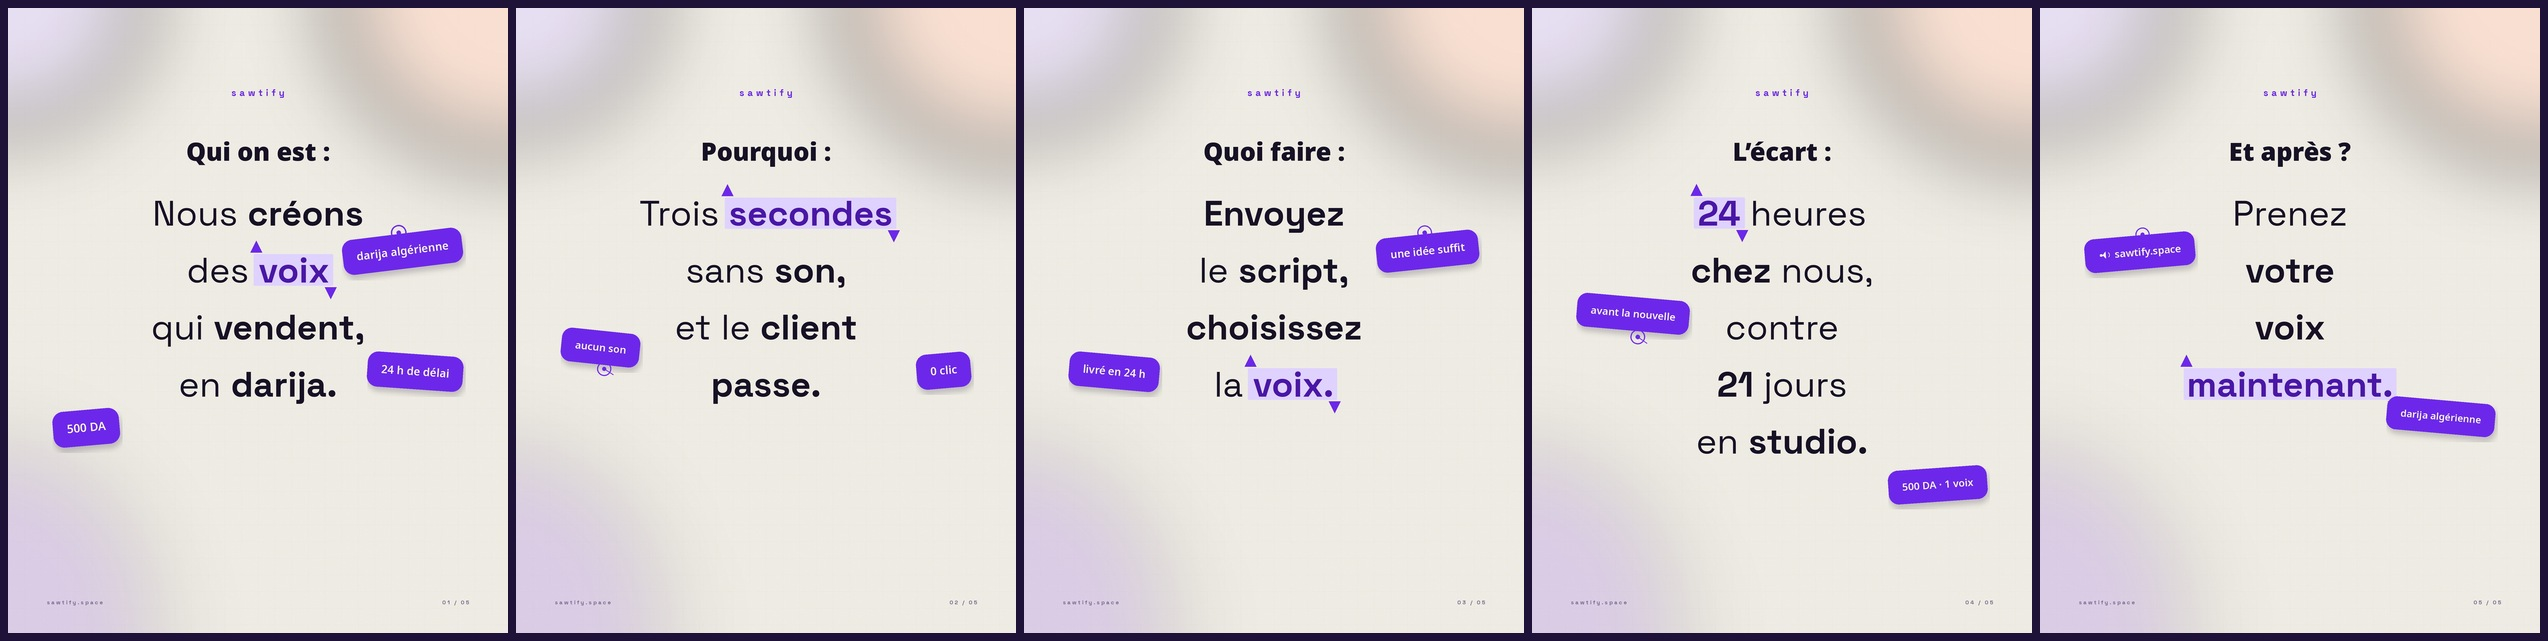
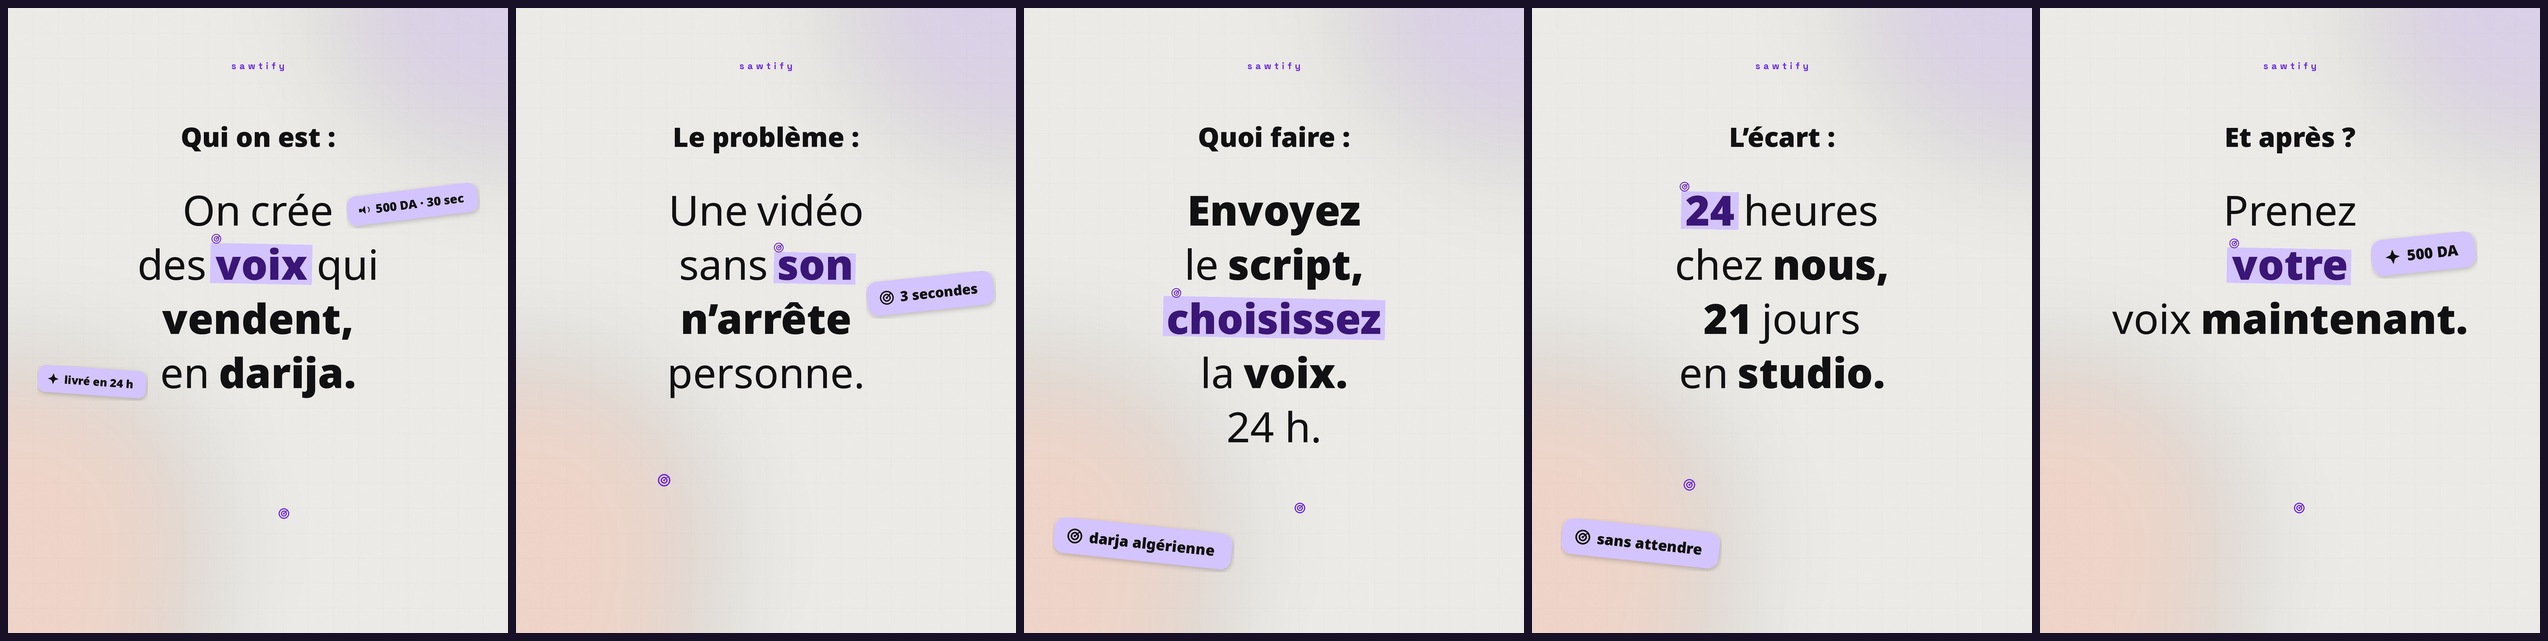
feat(lettre): pastilles auto-placees hors du texte + surligneur serre (gabarit lettre)
- geometrie des lignes mesuree avant dessin, placement des pilules par recherche de creneau (jamais sur le texte, jamais hors cadre)
- repli sous le bloc si aucun creneau
- surligneur ajuste au pixel, mot surligne en violet fonce, dards conserves
- tailles de titre plafonnees a 812 px de large pour laisser respirer les pastilles

diff --git a/marketing/instagram/lettre.py b/marketing/instagram/lettre.py
@@ -113,12 +113,12 @@ def pill_size(text, size, icon, font=BLK):
     tw_ = twidth(text, font, size)
     ic = int(size * 1.15) if icon else 0
     gap = int(size * 0.42) if icon else 0
-    w = size * 1.9 + tw_ + ic + gap
+    w = size * 2.0 + tw_ + ic + gap
     h = size * 2.45
     return w, h
 
 
-def pill(base, text, cx, cy, rot=-6, size=26, fill=VIO_SOFT, fg=INK,
+def pill(base, text, cx, cy, rot=-6, size=30, fill=VIO_SOFT, fg=INK,
          icon="target", font=BLK):
     tw_ = twidth(text, font, size)
     ic = int(size * 1.15) if icon else 0
@@ -146,7 +146,7 @@ def pill(base, text, cx, cy, rot=-6, size=26, fill=VIO_SOFT, fg=INK,
                                 int((cy - card.height / 2 / SS) * SS)))
 
 
-def dart(base, cx, cy, size=26, color=VIO, rot=0):
+def dart(base, cx, cy, size=30, color=VIO, rot=0):
     ic = _icon("target", size, color)
     if rot:
         ic = ic.rotate(rot, expand=True, resample=Image.BICUBIC)
@@ -200,29 +200,88 @@ def hline(base, tokens, cx, y, size, gap=None, fonts=None, rtl=True):
             tdraw(mask, t, xt, y, size, 255, fonts[w], align="left")
             bb = mask.getbbox()
             if bb:
-                px, py = size * 0.16, size * 0.14
+                px, py = size * 0.12, size * 0.09
                 bx0, by0 = bb[0] / SS - px, bb[1] / SS - py
                 bw = (bb[2] - bb[0]) / SS + 2 * px
                 bh = (bb[3] - bb[1]) / SS + 2 * py
                 bar = Image.new("RGBA", (int(bw * SS), int(bh * SS)), (0, 0, 0, 0))
                 ImageDraw.Draw(bar).rectangle([0, 0, bar.width - 1, bar.height - 1],
-                                              fill=(*VIO_SOFT, 240))
-                bar = bar.rotate(-1.2, expand=True, resample=Image.BICUBIC)
+                                              fill=(*VIO_SOFT, 255))
+                bar = bar.rotate(-1.1, expand=True, resample=Image.BICUBIC)
                 base.alpha_composite(bar, (int((bx0 - (bar.width / SS - bw) / 2) * SS),
                                            int((by0 - (bar.height / SS - bh) / 2) * SS)))
-                marker(base, bx0 - size * 0.02, by0 - size * 0.30, size * 0.24, VIO)
+                dart(base, bx0 + bw * 0.06, by0 - size * 0.12, size * 0.26, VIO, 0)
+                tdraw(base, t, xt, y, size, (58, 22, 120), fonts[w], align="left")
+                continue
         tdraw(base, t, xt, y, size, INK, fonts[w], align="left")
     return cx - total / 2, cx + total / 2
+
+
+def lines_geo(lines, cx, top, size, lead=1.30, fonts=None, rtl=True):
+    """Bornes de chaque ligne, mesurées avant tout dessin."""
+    fonts = fonts or WEIGHT
+    gap = size * 0.22
+    geo = []
+    y = top
+    for toks in lines:
+        ws = [twidth(t, fonts[w], size) for t, w, _ in toks]
+        total = sum(ws) + gap * (len(toks) - 1)
+        geo.append((y, cx - total / 2, cx + total / 2))
+        y += size * lead
+    return geo
 
 
 def block(base, lines, cx, top, size, lead=1.30, fonts=None, rtl=True):
     y = top
     geo = []
     for toks in lines:
-        x0, x1 = hline(base, toks, cx, y, size, fonts=fonts, rtl=rtl)
+        x0, x1 = hline(base, toks, cx, y, size, gap=size * 0.22,
+                       fonts=fonts, rtl=rtl)
         geo.append((y, x0, x1))
         y += size * lead
     return y - size * lead, geo
+
+
+def _hit(a, b, pad=6):
+    return not (a[2] + pad < b[0] or a[0] - pad > b[2]
+                or a[3] + pad < b[1] or a[1] - pad > b[3])
+
+
+def place_pill(spec, geo, size, fonts, placed):
+    """Trouve une position de pastille collée au bout d'une ligne, hors du texte."""
+    idx, side = spec["anchor"]
+    idx = min(idx, len(geo) - 1)
+    fnt = fonts["b"]
+    psize = spec.get("size", 32)
+    while psize >= 24:
+        pw, ph = pill_size(spec["t"], psize, spec.get("icon", "target"), fnt)
+        ly, lx0, lx1 = geo[idx]
+        for dx in (max(spec.get("dx",24),30), 40, 52, 64, 78, 92):
+            for dy in (spec.get("dy", -6), -ph * 0.40, ph * 0.40, -ph * 0.72,
+                       ph * 0.72):
+                cx = (lx1 + dx + pw / 2) if side == "right" \
+                    else (lx0 - dx - pw / 2)
+                cy = ly + dy
+                rot = math.radians(abs(spec.get("rot", -6)))
+                bw = pw * math.cos(rot) + ph * math.sin(rot)
+                bh = pw * math.sin(rot) + ph * math.cos(rot)
+                box = (cx - bw / 2, cy - bh / 2, cx + bw / 2, cy + bh / 2)
+                if box[0] < 44 or box[2] > W - 44 or box[1] < 372 or box[3] > 1224:
+                    continue
+                # hors de toutes les lignes de texte
+                bad = False
+                for (gy, gx0, gx1) in geo:
+                    line_box = (gx0, gy - size * 0.98, gx1, gy + size * 0.44)
+                    if _hit(box, line_box, pad=22):
+                        bad = True
+                        break
+                if bad:
+                    continue
+                if any(_hit(box, q, pad=12) for q in placed):
+                    continue
+                return cx, cy, psize, box
+        psize -= 2
+    return None
 
 
 def kicker(base, text, y=300, size=58, font=BLK):
@@ -236,23 +295,42 @@ def slide(spec, seed=3, rtl=True):
     base = paper(seed=seed)
     wordmark(base)
     fonts = spec.get("fonts") or WEIGHT
+    size = spec.get("size", 118 if rtl else 90)
+    while size > 60 and max((g[2] - g[0]) for g in
+                            lines_geo(spec["lines"], W / 2, 0, size, 1.3, fonts, rtl)) > 812:
+        size -= 2
+    top = spec.get("top", 470)
+    lead = spec.get("lead", 1.30)
     kicker(base, spec["kicker"], spec.get("kick_y", 300), spec.get("kick_size", 58),
            fonts["b"] if spec.get("fonts") else BLK)
-    bot, geo = block(base, spec["lines"], W / 2, spec.get("top", 470),
-                     spec.get("size", 108 if rtl else 84), spec.get("lead", 1.30),
-                     fonts=fonts, rtl=rtl)
+
+    geo = lines_geo(spec["lines"], W / 2, top, size, lead, fonts, rtl)
+    placed = []
+    fallback_y = 1156
     for it in spec.get("pills", ()):
-        idx, side = it["anchor"]
-        idx = min(idx, len(geo) - 1)
-        ly, lx0, lx1 = geo[idx]
-        fnt = fonts["b"] if spec.get("fonts") else BLK
-        pw, ph = pill_size(it["t"], it.get("size", 26), it.get("icon", "target"), fnt)
-        dx = it.get("dx", 24)
-        cx = (lx1 + dx + pw / 2) if side == "right" else (lx0 - dx - pw / 2)
-        cx = min(max(cx, 40 + pw / 2), W - 40 - pw / 2)
-        cy = ly + it.get("dy", -6)
-        pill(base, it["t"], cx, cy, it.get("rot", -6), it.get("size", 26),
-             it.get("fill", VIO_SOFT), INK, it.get("icon", "target"), fnt)
+        it = dict(it)
+        if it.get("dy") in (54, 58, 62, 44, 46, 56):   # posé sous la ligne
+            it["dy"] = -14
+        hit = place_pill(it, geo, size, fonts, placed)
+        if not hit:
+            # repli : sous le bloc, côté gauche puis droit, sans toucher au texte
+            psize = it.get("size", 32)
+            pw, ph = pill_size(it["t"], psize, it.get("icon", "target"), fonts["b"])
+            for cx in (40 + 24 + pw / 2, W - 40 - 24 - pw / 2):
+                box = (cx - pw / 2, fallback_y - ph / 2, cx + pw / 2,
+                       fallback_y + ph / 2)
+                if box[3] < 1216 and not any(_hit(box, q, pad=10) for q in placed):
+                    placed.append(box)
+                    pill(base, it["t"], cx, fallback_y, it.get("rot", -6), psize,
+                         it.get("fill", VIO_SOFT), INK, it.get("icon", "target"),
+                         fonts["b"])
+                    break
+            continue
+        cx, cy, psize, box = hit
+        placed.append(box)
+        pill(base, it["t"], cx, cy, it.get("rot", -6), psize,
+             it.get("fill", VIO_SOFT), INK, it.get("icon", "target"), fonts["b"])
+    block(base, spec["lines"], W / 2, top, size, lead, fonts=fonts, rtl=rtl)
     for d in spec.get("darts", ()):
         dart(base, d[0], d[1], d[2], VIO, d[3] if len(d) > 3 else 0)
     return base
@@ -306,7 +384,7 @@ DZ = {"id": "dz", "seed": 3, "slides": [
          pills=[dict(t="500 دج", anchor=(1, "right"), dx=24, dy=-18, rot=6,
                      icon="spark"),
                 dict(t="sawtify.space", anchor=(2, "left"), dx=-4, dy=58, rot=-5,
-                     icon="target", size=22)],
+                     icon="target", size=26)],
          darts=[(560, 1080, 26)]),
 ]}
 
